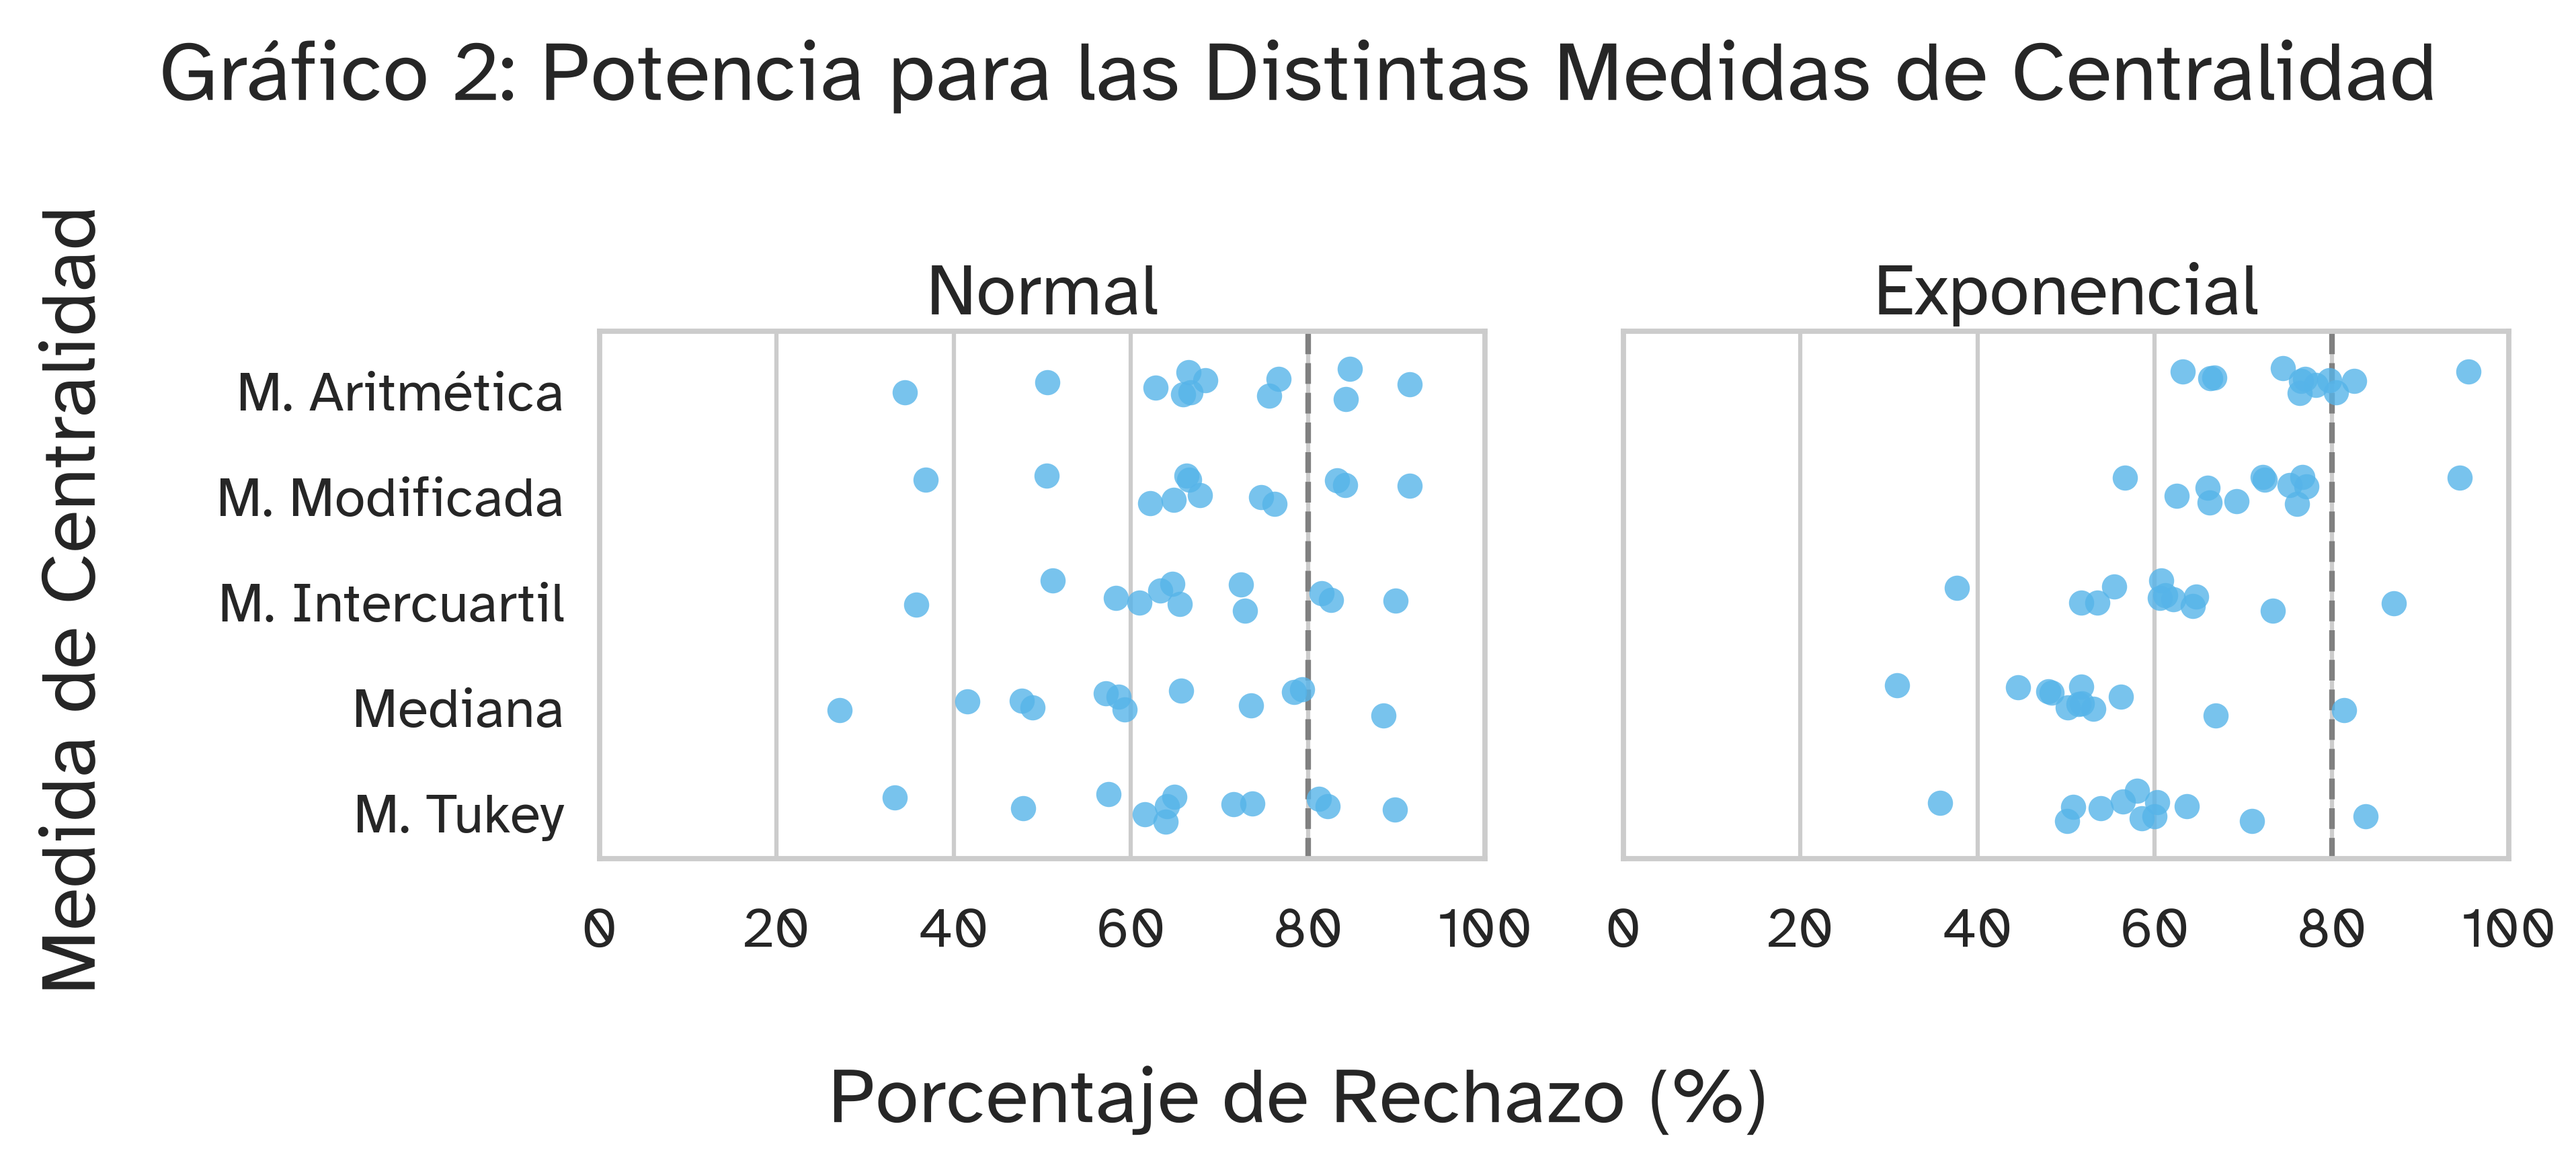
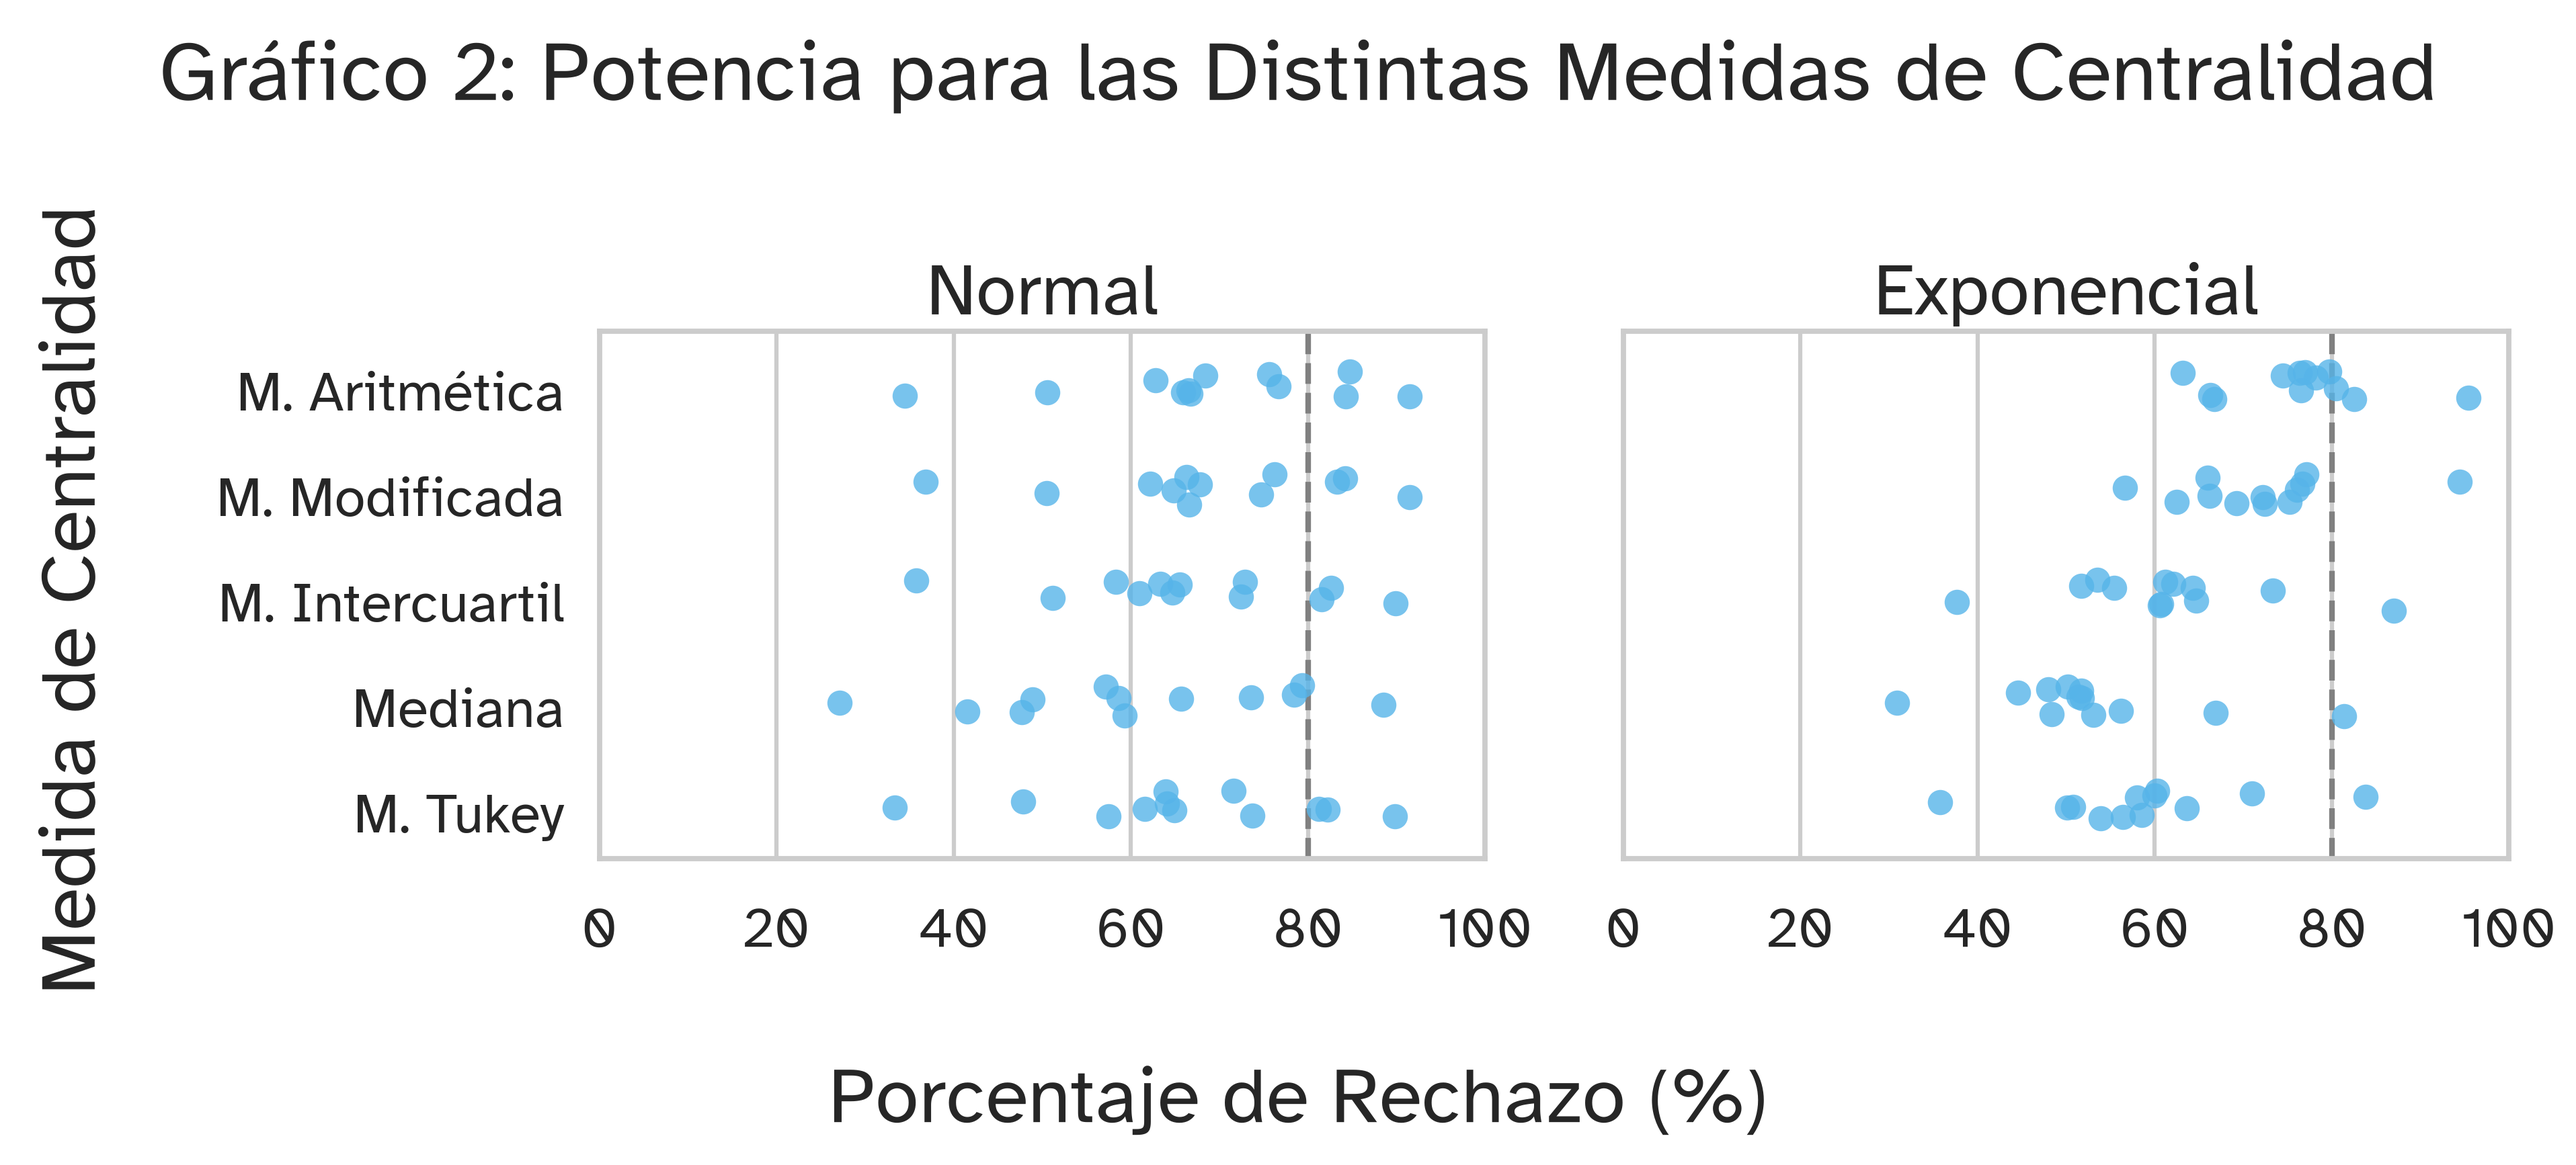
Grafico diferentes desvios y outliers. Avances en el informe

diff --git a/graficos.py b/graficos.py
@@ -133,7 +133,7 @@ def load_simulation_data(n_simulations, filename="simulacion.csv"):
         10: 2.50,
         11: 3.00,
         12: 4.00,
-        14: 5.00,
+        13: 5.00,
     }
 
     df["Cociente SD"] = (
@@ -950,11 +950,27 @@ save_figure(fig = fig, name = "Grafico 8 Potencia segun Cantidad de Grupos")
 ## Tamaño del efecto
 
 
+fig = line_plot(
+    scenario=[7,8,9,10,11,12,13],
+    x_var = "Cociente SD",
+    hue_var = "test",
+    center_name = "Mediana",
+    group = [4],
 
 
+    x_label = "Cantidad de Grupos",
+    y_label = "Porcentaje de Rechazo (%)",
+    title_label = "Gráfico 9: Potencia según Tamaño del Efecto",
 
+    #x_ticks = [1, 1.5, 2, 2.5,3,3.5,4,4.5,5],
 
+    y_ticks = [0, 20, 40, 60, 80, 100],
+    y_lim = (0,100),
 
+    lines = [80],
+)
+
+save_figure(fig = fig, name = "Grafico 9 Potencia segun Tamano del Efecto")
 
 
 ## Diferentes desvíos

diff --git a/INFORME_TEMPORAL.md b/INFORME_TEMPORAL.md
@@ -59,15 +59,27 @@ Para distribuciones asimétricas solo ANOVA y ANOVA por permutación controlan e
 
 Para el ANOVA y ANOVA por permutación Se observa que la potencia es menor para 2 grupos, se estabiliza para 4 a 12 grupos, y disminuye para 14 a 20 grupos
 
-Para el ANOVA de Welch, en distribuciones simétricas la potencia dismnuye progresivamente, para distribuciones asimétricas parece disminuir inicialmente (para k=4) y luego incrementa lentamente. EN todos los casos (salvo k=2) es menor que la potencia de los otros dos tests.
+Para el ANOVA de Welch, en distribuciones simétricas la potencia dismnuye progresivamente, para distribuciones asimétricas parece disminuir inicialmente (para k=4) y luego incrementa lentamente. En todos los casos (salvo k=2) es menor que la potencia de los otros dos tests.
 
 ## Tamaño del Efecto
+![grafico 9](<figures/Grafico 9 Potencia segun Tamano del Efecto.png>)
+
+Para el ANOVA y ANOVA por permutación Se observa que la potencia incrementa cuando lo hace el tamaño del efecto. En la distribución normal alcanza una potencia del 80% cuando uno de los grupos tiene un desvío del doble que el resto. Por otro lado, para la distribución exponencial se necesita un desvío estandar del triple que el resto.
+
+El ANOVA de welch presenta una potencia mucho menor en ambas distribuciones, aunque incrementa lentamente al elevarse el tamaño del efecto.
+
+
 
 ## Patrón de los desvíos
 
 ![grafico 10](<figures/Grafico 10 Potencia para los distintos patrones de desvio estandar.png>)
 
+Se analizaron los casos donde uno de los desvíos era del doble que el resto, la mitad era del doble del resto y para cuando todos los desvíos eran distintos, aumentando progresivamente de 1 a 2. Esto se estudio para 4 y 8 grupos.
+
+Destaca que cuando todos los grupos tienen desvíos diferentes entonces las pruebas sufren de una perdida de potencia.
+
+Por otro lado, en el caso de 4 grupos tener uno o dos grupos diferentes del resto presentan un comportamiento similar, sin embargo al incrementar la cantidad de grupos, el tener más grupos con desvíos altos si eleva la potencia.
 
 ## Outliers
 
-![grafico 11](<figures/Grafico 10 Potencia para los distintos patrones de desvio estandar.png>)
+![grafico 11](<figures/Grafico 11 Error Tipo I segun Cantidad de Valores Atípicos.png>)
